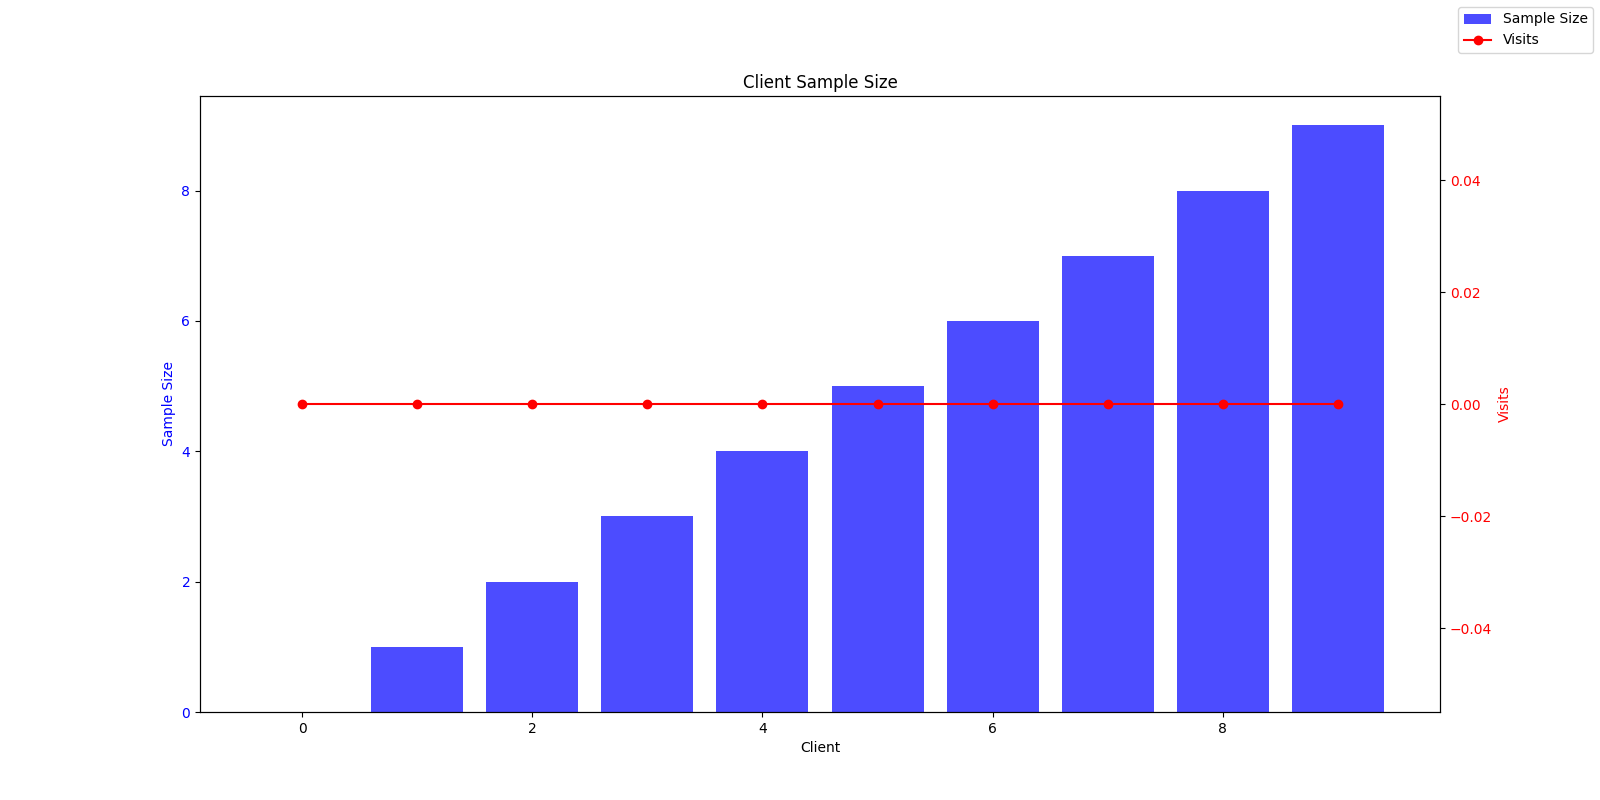
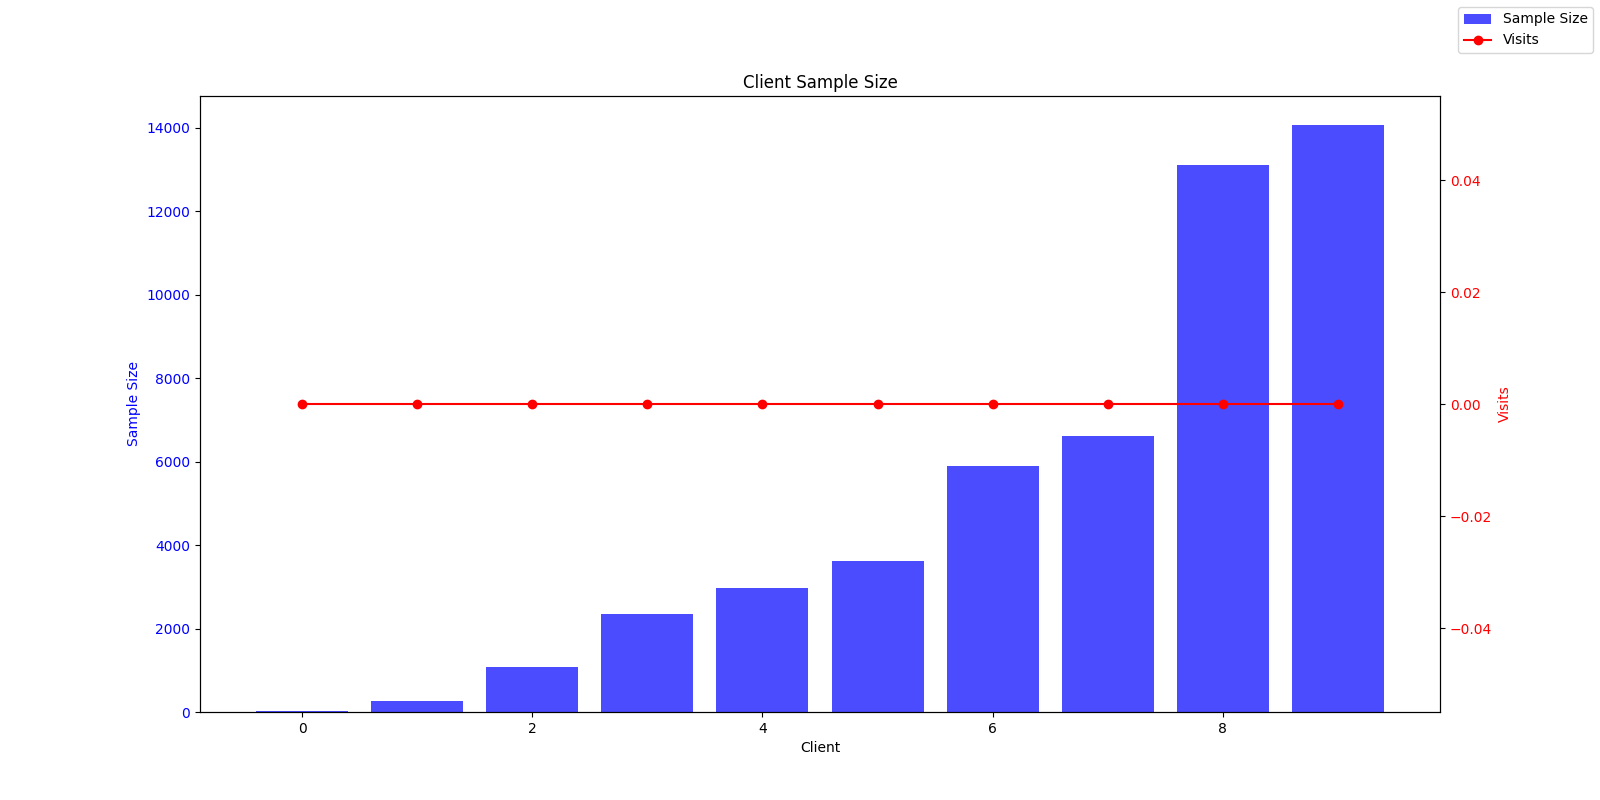
fix partition and daisy chain

diff --git a/experiments.py b/experiments.py
@@ -600,13 +600,13 @@ def train_single_net(net_id, net, dataidxs, args, device, logger):
     return testacc
 
 # Parallel training using ProcessPoolExecutor
-def parallel_train_networks(nets, selected, net_dataidx_map, args, device, logger):
+def parallel_train_networks(nets, selected, net_dataidx_map, local_data_index, args, device, logger):
     avg_acc = 0
     with concurrent.futures.ProcessPoolExecutor() as executor:
         # Prepare the futures for parallel execution
         futures = [
             executor.submit(
-                train_single_net, net_id, net, net_dataidx_map[net_id], args, device, logger
+                train_single_net, net_id, net, net_dataidx_map[local_data_index[net_id]], args, device, logger
             )
             for net_id, net in nets.items() if net_id in selected
         ]
@@ -618,13 +618,13 @@ def parallel_train_networks(nets, selected, net_dataidx_map, args, device, logge
     return avg_acc / len(futures)
 
 
-def local_train_net(nets, selected, args, net_dataidx_map, test_dl = None, device="cpu"):
+def local_train_net(nets, selected, args, net_dataidx_map, local_data_index, test_dl = None, device="cpu"):
     avg_acc = 0.0
 
     for net_id, net in nets.items():
         if net_id not in selected:
             continue
-        dataidxs = net_dataidx_map[net_id]
+        dataidxs = net_dataidx_map[local_data_index[net_id]]
 
         logger.info("Training network %s. n_training: %d" % (str(net_id), len(dataidxs)))
         # move the model to cuda device:
@@ -643,7 +643,7 @@ def local_train_net(nets, selected, args, net_dataidx_map, test_dl = None, devic
         n_epoch = args.epochs
 
 
-        trainacc, testacc = train_net(net_id, net, train_dl_local, test_dl, n_epoch, args.lr, args.optimizer, device=device)
+        trainacc, testacc = train_net(net_id, net, train_dl_local, test_dl, n_epoch, args.lr, args.optimizer, args, device=device)
         logger.info("net %d final test acc %f" % (net_id, testacc))
         avg_acc += testacc
         # saving the trained models here
@@ -989,7 +989,8 @@ if __name__ == '__main__':
                 for idx in selected:
                     nets[idx].load_state_dict(global_para)
 
-            local_train_net(nets, selected, args, net_dataidx_map, test_dl = test_dl_global, device=device)
+            local_data_index = np.arange(args.n_parties)
+            local_train_net(nets, selected, args, net_dataidx_map, local_data_index, test_dl = test_dl_global, device=device)
             # local_train_net(nets, args, net_dataidx_map, local_split=False, device=device)
 
             # update global model
@@ -1037,7 +1038,7 @@ if __name__ == '__main__':
         global_models, global_model_meta_data, global_layer_type = init_nets(args.net_config, 0, 1, args)
         global_model = global_models[0]
 
-        real_net_dataidx_map = net_dataidx_map
+        local_data_index = np.arange(args.n_parties)
 
         global_para = global_model.state_dict()
         if args.is_same_initial:
@@ -1045,9 +1046,10 @@ if __name__ == '__main__':
                 net.load_state_dict(global_para)
 
         results = []
+        visits = {i: 1 for i in range(args.n_parties)}
 
         for round in range(args.comm_round):
-            logger.warning("in comm round: %s from %s" % (str(round), str(args.comm_round)))
+            logger.warning(">>>>>>>>>>>>> in comm round: %s from %s" % (str(round), str(args.comm_round)))
 
             arr = np.arange(args.n_parties)
             np.random.shuffle(arr)
@@ -1063,21 +1065,19 @@ if __name__ == '__main__':
                     nets[idx].load_state_dict(global_para)
 
             for daisy in range(args.daisy + 1):
-                parallel_train_networks(nets, selected, net_dataidx_map, args, device, logger)
-                # local_train_net(nets, selected, args, net_dataidx_map, test_dl = test_dl_global, device=device)
-                # local_train_net(nets, args, net_dataidx_map, local_split=False, device=device)
+                # parallel_train_networks(nets, selected, net_dataidx_map, local_data_index, args, device, logger)
+                local_train_net(nets, selected, args, net_dataidx_map, local_data_index, test_dl = test_dl_global, device=device)
 
-                logger.warning(">>>>>>>>>>>>> DAISY ROUND")
+                logger.warning(">>>>>>>>>>>>> DAISY chain %s" % str(daisy))
 
                 # DAISY-CHAIN
                 if args.daisy_perm == 'random':
                     # random permutation
-                    daisy_data_idx = list(net_dataidx_map.values())
-                    random.shuffle(daisy_data_idx)
-                    net_dataidx_map = dict(zip(net_dataidx_map.keys(), daisy_data_idx))
+                    random.shuffle(local_data_index)
                 elif args.daisy_perm == 'prob_size':
                     # probabilistic permutation on sample size
-                    sample_sizes = np.array([len(value) for value in real_net_dataidx_map.values()])
+                    daisy_data_idx = list(net_dataidx_map.values())
+                    sample_sizes = np.array([len(value) for value in daisy_data_idx])
 
                     # AMP ? sample_sizes = sample_sizes ** 2
 
@@ -1086,11 +1086,13 @@ if __name__ == '__main__':
                         exit(1)
 
                     probabilities = (sample_sizes / total_size)
-                    permutedDataIndex = np.random.choice(range(len(sample_sizes)), size=len(sample_sizes), replace=True,
+                    permuted_data_idx = np.random.choice(range(len(sample_sizes)), size=len(sample_sizes), replace=True,
                                                          p=probabilities)
 
-                    for i in range(len(sample_sizes)):
-                        net_dataidx_map[i] = net_dataidx_map[permutedDataIndex[i]]
+                    for idx in permuted_data_idx:
+                        visits[idx] += 1
+
+                    local_data_index = permuted_data_idx
 
             # update global model
             total_data_points = sum([len(net_dataidx_map[r]) for r in selected])
@@ -1124,6 +1126,8 @@ if __name__ == '__main__':
 
             logger.info('>> Global Model Train accuracy: %f' % train_acc)
             logger.info('>> Global Model Test accuracy: %f' % test_acc)
+
+        plot_rss(net_dataidx_map, visits, log_path, args)
 
         # Convert the list of results to a pandas DataFrame
         df_results = pd.DataFrame(results)
@@ -1424,7 +1428,9 @@ if __name__ == '__main__':
         logger.info("Initializing nets")
         nets, local_model_meta_data, layer_type = init_nets(args.net_config, args.dropout_p, args.n_parties, args)
         arr = np.arange(args.n_parties)
-        local_train_net(nets, arr, args, net_dataidx_map, test_dl = test_dl_global, device=device)
+        args
+        local_data_index = np.arange(args.n_parties)
+        local_train_net(nets, arr, args, net_dataidx_map, local_data_index, test_dl = test_dl_global, device=device)
 
     elif args.alg == 'all_in':
         nets, local_model_meta_data, layer_type = init_nets(args.net_config, args.dropout_p, 1, args)

diff --git a/plots.py b/plots.py
@@ -6,8 +6,8 @@ from utils import *
 
 # Plot random size client samples
 def plot_rss(client_idxs, visits, path, args):
-    counts = {}
     data = {}
+    counts = [0 for _ in range(len(client_idxs))]
     for idx, l in client_idxs.items():
         counts[idx] = len(l)
 
@@ -27,12 +27,11 @@ def plot_rss(client_idxs, visits, path, args):
 
     fig, ax = plt.subplots(figsize=(16, 8))
     # Plot the bars dynamically, stacking them
-    bar_width = 0.5
     bottom = np.zeros(len(labels))  # Initialize bottom at 0 for stacking
 
     for category in categories:
         values = category_values[category]
-        ax.bar(np.arange(len(labels)), values, bar_width, bottom=bottom, label=category)
+        ax.bar(np.arange(len(labels)), values, bottom=bottom, label=category)
         bottom += np.array(values)  # Update the bottom for the next category
 
     # Adding labels and title
